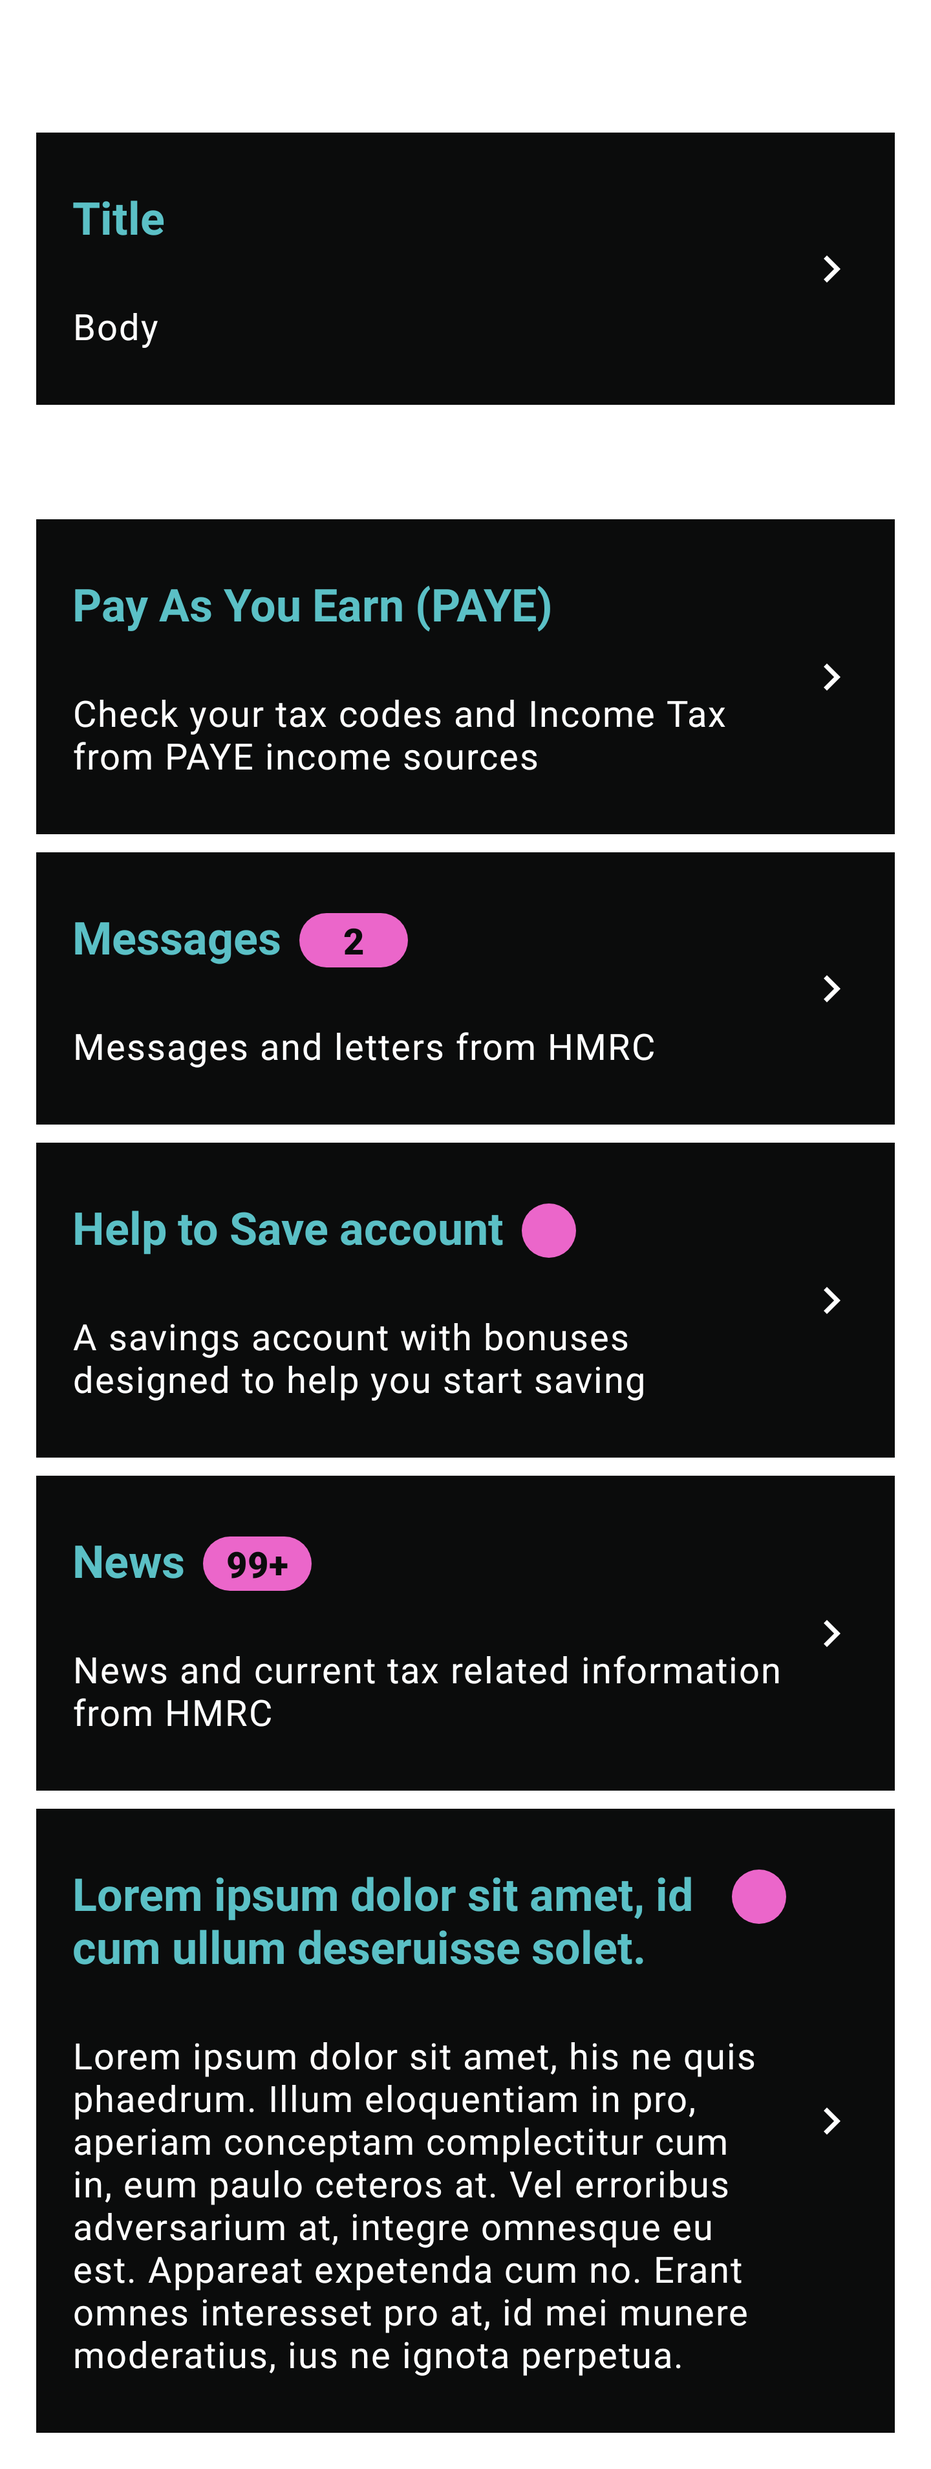
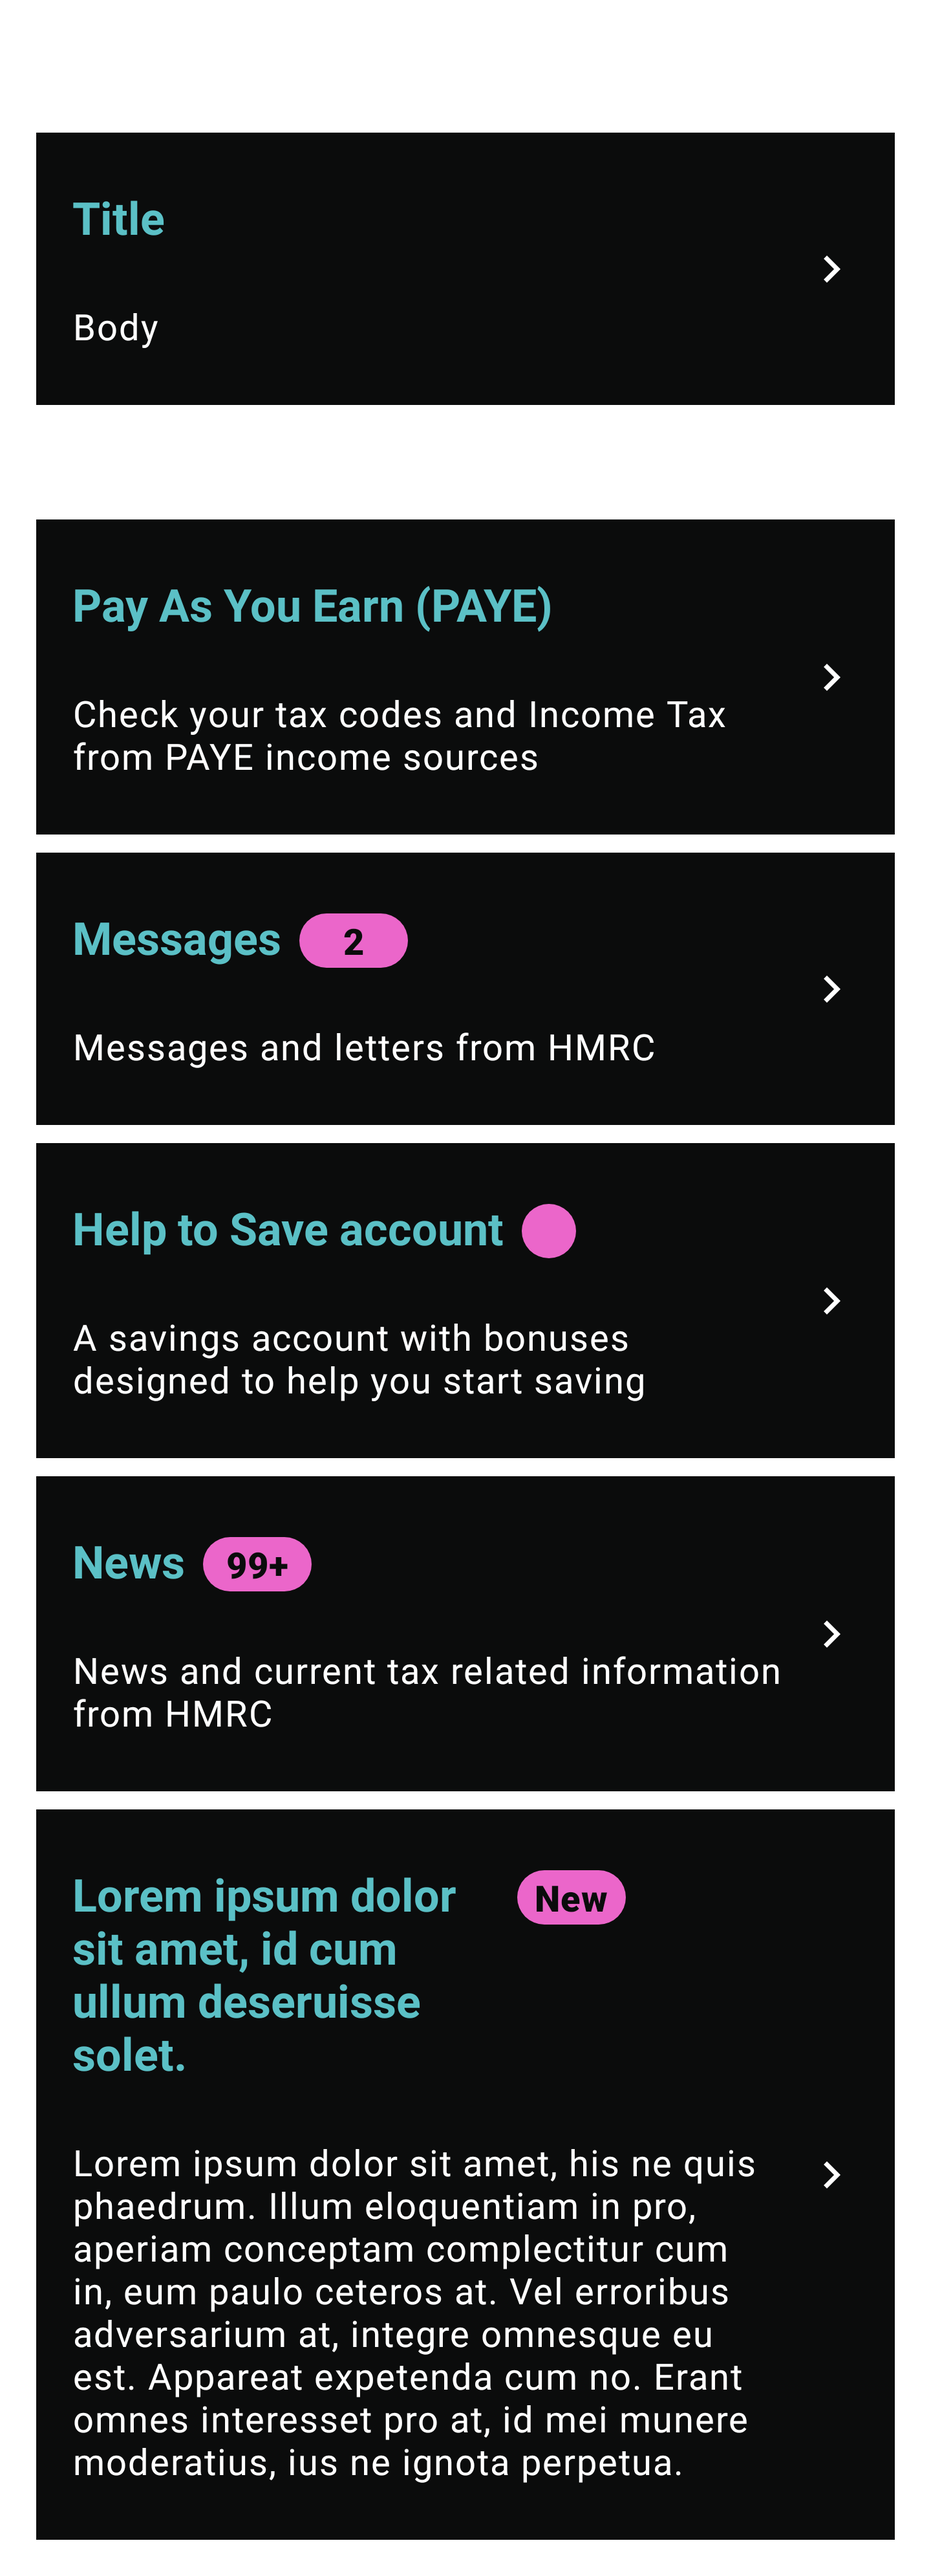
HMA-5240: menu panel row new badge (#66)
* Refactor to add new Notification type to MenuPanelRowView

* Update screenshots and changelog

diff --git a/components/src/main/java/uk/gov/hmrc/components/organism/menu/MenuPanelRowView.kt b/components/src/main/java/uk/gov/hmrc/components/organism/menu/MenuPanelRowView.kt
@@ -19,6 +19,7 @@ import android.content.Context
 import android.util.AttributeSet
 import android.view.LayoutInflater
 import android.view.View
+import android.widget.TextView
 import androidx.constraintlayout.widget.ConstraintLayout
 import androidx.constraintlayout.widget.ConstraintSet
 import androidx.constraintlayout.widget.ConstraintSet.BASELINE
@@ -43,6 +44,8 @@ class MenuPanelRowView @JvmOverloads constructor(
     private val isLargeText: Boolean
         get() = resources.configuration.fontScale > MAX_SINGLE_LINE_FONT_SCALE
 
+    private var menuPanelNotification: Notification = Notification.None
+
     init {
         attrs?.let {
             val typedArray = context.theme.obtainStyledAttributes(it, R.styleable.MenuPanelRowView, 0, 0)
@@ -51,7 +54,6 @@ class MenuPanelRowView @JvmOverloads constructor(
 
             setTitle(title)
             setBody(body)
-            setDefaultContentDescription(title, body)
             typedArray.recycle()
         }
         if (isLargeText) adjustLayoutForBigText()
@@ -59,45 +61,51 @@ class MenuPanelRowView @JvmOverloads constructor(
         setRippleColorResource(R.color.hmrc_secondary_button_ripple)
     }
 
-    private fun setDefaultContentDescription(title: CharSequence, body: CharSequence) {
-        binding.layout.contentDescription =
-            context.getString(R.string.menu_panel_button_no_notification_content_description, title, body)
-    }
-
-    private fun setNotificationContentDescription(countToDisplay: Int) {
+    @Suppress("ComplexMethod")
+    private fun updateMenuPanelContentDescription() {
         val title = getTitle()
         val body = getBody()
+        val notification = menuPanelNotification
         binding.layout.apply {
-            contentDescription = when (countToDisplay) {
-                0 -> {
+            contentDescription = when {
+                notification is Notification.Count && notification.count == 0 -> {
                     context.getString(
                         R.string.menu_panel_button_circle_notification_content_description,
                         title,
                         body
                     )
                 }
-                1 -> {
+                notification is Notification.Count && notification.count == 1 -> {
                     context.getString(
                         R.string.menu_panel_button_one_notification_content_description,
                         title,
-                        countToDisplay.toString(),
+                        notification.count.toString(),
                         body
                     )
                 }
-                else -> {
+                notification is Notification.Count && notification.count > 1 -> {
                     context.getString(
                         R.string.menu_panel_button_multiple_notifications_content_description,
                         title,
-                        countToDisplay.toString(),
+                        notification.count.toString(),
                         body
                     )
                 }
+                notification is Notification.New -> {
+                    context.getString(
+                        R.string.menu_panel_button_new_notification_content_description,
+                        title,
+                        body
+                    )
+                }
+                else -> context.getString(R.string.menu_panel_button_no_notification_content_description, title, body)
             }
         }
     }
 
     fun setTitle(title: CharSequence) {
         binding.textTitle.text = title
+        updateMenuPanelContentDescription()
     }
 
     fun getTitle(): CharSequence {
@@ -106,36 +114,52 @@ class MenuPanelRowView @JvmOverloads constructor(
 
     fun setBody(body: CharSequence) {
         binding.textBody.text = body
+        updateMenuPanelContentDescription()
     }
 
     fun getBody(): CharSequence {
         return binding.textBody.text
     }
 
-    fun showNotification(notificationCount: Int = 0) {
+    fun showNotification(notificationType: Notification = Notification.Count()) {
+        menuPanelNotification = notificationType
         binding.notification.apply {
-            if (notificationCount > 0) {
-                text = if (notificationCount > MAXIMUM_NOTIFICATION_COUNT) {
-                    context.getString(R.string.menu_panel_button_over_ninety_nine_notifications_text)
-                } else {
-                    notificationCount.toString()
+            text = when (notificationType) {
+                is Notification.New -> context.getString(R.string.menu_panel_button_new_notification)
+                is Notification.Count -> {
+                    when {
+                        notificationType.count > MAXIMUM_NOTIFICATION_COUNT -> {
+                            context.getString(R.string.menu_panel_button_over_ninety_nine_notifications_text)
+                        }
+                        notificationType.count > 0 -> notificationType.count.toString()
+                        else -> null
+                    }
                 }
-                background = ContextCompat
-                    .getDrawable(context, R.drawable.components_menu_panel_round_square_notification)
-                (this.layoutParams as ConstraintLayout.LayoutParams).dimensionRatio = "2:1"
-                setNotificationContentDescription(notificationCount)
-            } else {
+                is Notification.None -> null
+            }
+            setNotificationBackground(this)
+            updateMenuPanelContentDescription()
+            visibility = View.VISIBLE
+        }
+    }
+
+    private fun setNotificationBackground(notificationView: TextView) {
+        val notification = menuPanelNotification
+        notificationView.apply {
+            if (notification is Notification.Count && notification.count == 0) {
                 background = ContextCompat.getDrawable(context, R.drawable.components_menu_pane_circle_notification)
                 (this.layoutParams as ConstraintLayout.LayoutParams).dimensionRatio = "1:1"
-                setNotificationContentDescription(0)
+            } else {
+                background =
+                    ContextCompat.getDrawable(context, R.drawable.components_menu_panel_round_square_notification)
+                (this.layoutParams as ConstraintLayout.LayoutParams).dimensionRatio = "2:1"
             }
-            visibility = View.VISIBLE
         }
     }
 
     fun hideNotification() {
         binding.notification.visibility = View.GONE
-        setDefaultContentDescription(getTitle(), getBody())
+        updateMenuPanelContentDescription()
     }
 
     private fun adjustLayoutForBigText() {
@@ -153,6 +177,12 @@ class MenuPanelRowView @JvmOverloads constructor(
             connect(R.id.notification, TOP, R.id.text_title, BOTTOM, defaultMargin)
             applyTo(binding.layout)
         }
+    }
+
+    sealed class Notification {
+        data class Count(val count: Int = 0) : Notification()
+        object New : Notification()
+        object None : Notification()
     }
 
     companion object {

diff --git a/sample/src/main/java/uk/gov/hmrc/components/sample/organisms/MenuPanelRowFragment.kt b/sample/src/main/java/uk/gov/hmrc/components/sample/organisms/MenuPanelRowFragment.kt
@@ -20,6 +20,7 @@ import android.view.LayoutInflater
 import android.view.View
 import android.view.ViewGroup
 import android.widget.Toast
+import uk.gov.hmrc.components.organism.menu.MenuPanelRowView
 import uk.gov.hmrc.components.sample.R
 import uk.gov.hmrc.components.sample.autoCleared
 import uk.gov.hmrc.components.sample.base.BaseComponentsFragment
@@ -45,7 +46,7 @@ class MenuPanelRowFragment : BaseComponentsFragment() {
             menuExample1.setOnClickListener { onCtaPressed() }
             menuExample2.apply {
                 setOnClickListener { onCtaPressed() }
-                showNotification(2)
+                showNotification(MenuPanelRowView.Notification.Count(2))
             }
             menuExample3.apply {
                 setOnClickListener { onCtaPressed() }
@@ -53,11 +54,11 @@ class MenuPanelRowFragment : BaseComponentsFragment() {
             }
             menuExample4.apply {
                 setOnClickListener { onCtaPressed() }
-                showNotification(100)
+                showNotification(MenuPanelRowView.Notification.Count(100))
             }
             menuExample5.apply {
                 setOnClickListener { onCtaPressed() }
-                showNotification()
+                showNotification(MenuPanelRowView.Notification.New)
             }
         }
     }

diff --git a/CHANGELOG.md b/CHANGELOG.md
@@ -18,6 +18,12 @@ Allowed headings:
 
 ### Changed
 
+* Updated `MenuPanelRowView` notifications to add support for 'New' badge.
+To show the notification you now need to provide the type of notification as a parameter: `showNotification(notificationType: Notification)`
+Notification types: `Count(val count: Int = 0)`, `New`, `None`.
+Default for panel is `None` and this does not need to be set.
+Default of `Count` just shows a dot, and a count value does not need to be provided, this is the default state of `showNotification()`.
+
 * Refactored dependencies and updated the following:
 	- kotlin version: 1.5.20 -> 1.5.31
 	- hmrc spotless plugin: 1.0.0 -> 1.1.1
